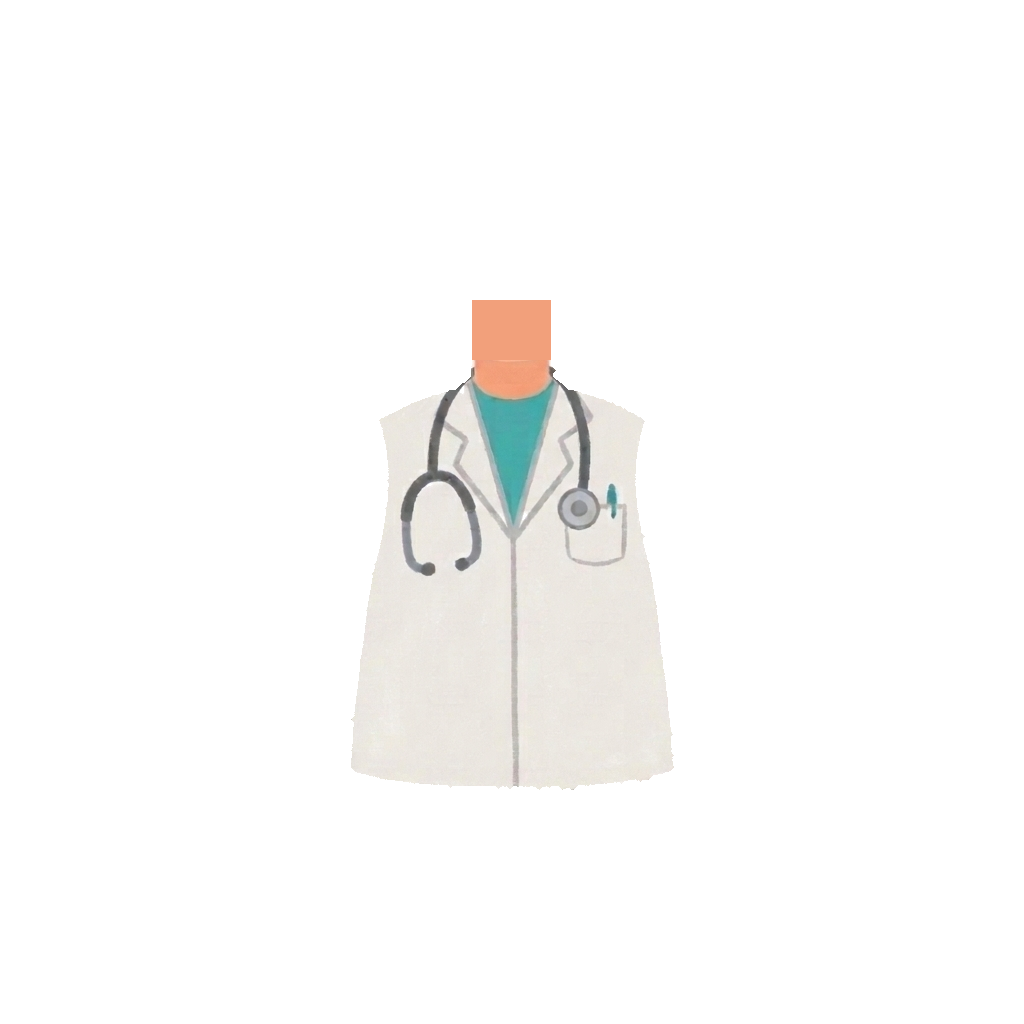
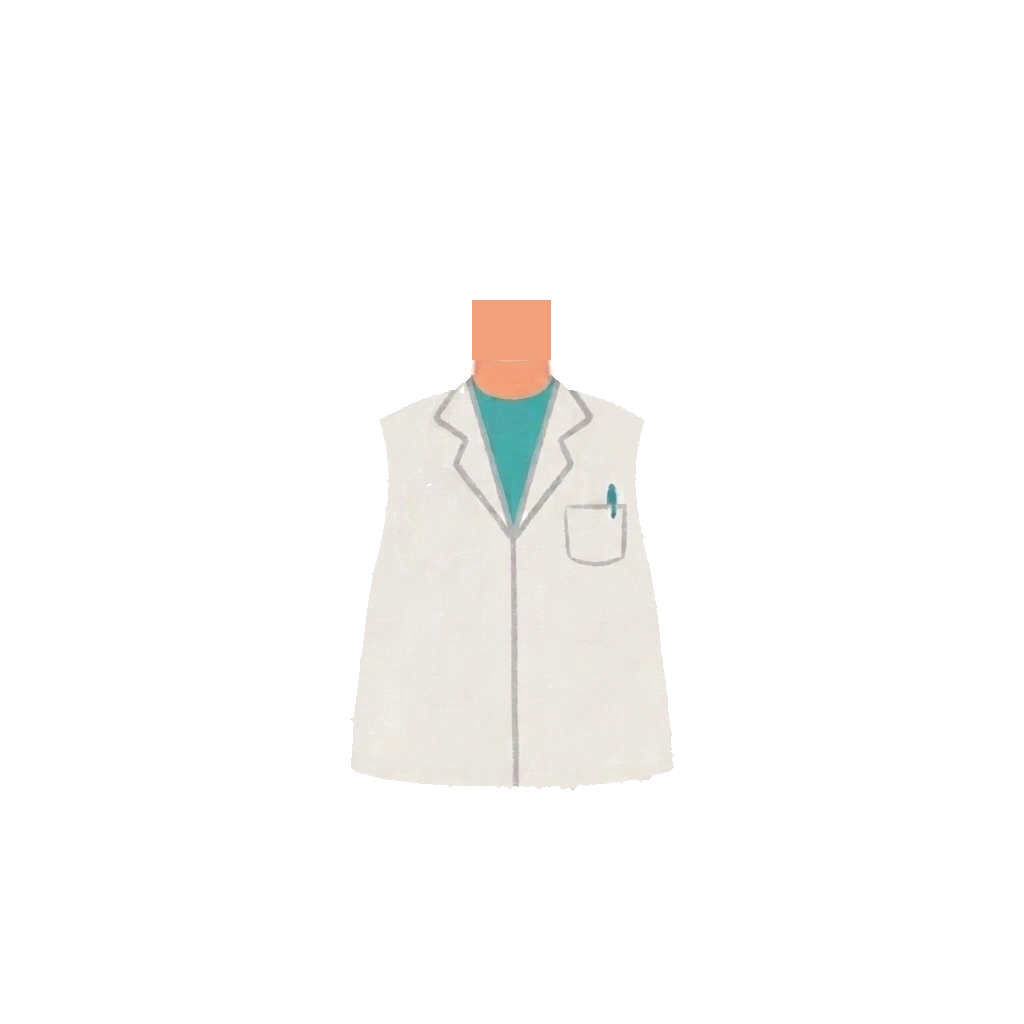
Doktorn A: stetoskopet och öronlampan i kod (verktyg/doktor-saker.js), stetoskopet i öronen när doktorn lyssnar, kroppen utan inbakat stetoskop, ?ark=saker
Claude-Session: https://claude.ai/code/session_01DEaxNzsmbXEwSKmxFy2aQ3

Changed region(s): [[0.375, 0.375, 0.4688, 0.5625], [0.5312, 0.375, 0.5938, 0.5312]]

diff --git a/assets/karaktarer/doktorn-a/premium/uttryck.html b/assets/karaktarer/doktorn-a/premium/uttryck.html
@@ -43,6 +43,7 @@
 <script src="../../../../verktyg/blinka.js"></script>
 <script src="../../../../verktyg/rigg-motor.js"></script>
 <script src="../../../../verktyg/rigg-three.js"></script>
+<script src="../../../../verktyg/doktor-saker.js"></script>
 <script>
 // Vridpunkter ur mor-rigg.json. Armarna och benen är ritade (premium/skript/mor_lemmar.py): armen EN rund stump i ett stycke
 // (smal underarm, rund hand) med vridpunkten där den kommer ut under ärmen, benen persika med brun sko och lång rot 80 px upp
@@ -123,7 +124,7 @@ const UTTRYCK = {
 // boj kroppen böjer sig från fötterna i grader (+ åt höger): huvudet lutar sig dit, fötterna står kvar platt (luta vrider hela figuren)
 // bada 0–1: båda armarna ut på riktningens sida (riktningsposerna, håller, når); utan den vänder rikt bara ansiktet, magen och öronen
 const POSE0 = { luta: 0, rikt: 0, upp: 0, bred: 0, strack: 0, sank: 0, armar: [0, 0], fram: [0, 0], oron: [0, 0],
-  benFram: 0, ben: [0, 0], benY: [0, 0], benS: [0, 0], lyft: 0, svans: 0, x: 0, klapp: 0, gang: 0, sving: 0, armY: 0, hand: 0, gnista: 0, skak: [0, 0], nick: [0, 0], boj: 0, bada: 0, armbage: [0, 0] };
+  benFram: 0, ben: [0, 0], benY: [0, 0], benS: [0, 0], lyft: 0, svans: 0, x: 0, klapp: 0, gang: 0, sving: 0, armY: 0, hand: 0, gnista: 0, skak: [0, 0], nick: [0, 0], boj: 0, bada: 0, armbage: [0, 0], steto: 0, lampa: 0, ljus: 0 };
 const POSER = {
   neutral:   { namn: 'neutral' },
   lutaV:     { namn: 'lutar vänster', luta: -1.5, boj: -4.5 },
@@ -143,6 +144,10 @@ const POSER = {
   huka:      { namn: 'hukar (före hopp)', strack: -0.08, bred: 0.05, ben: [6, 6], armar: [-10, -10] },
   stampar:   { namn: 'stampar', ben: [0, 8], benY: [0, -16], luta: -2 },
   lyssnar:   { namn: 'lyssnar', luta: 2, boj: 5.5 },
+  // Stetoskopet i öronen (Sanna 2026-11-20: "när läkaren lyssnar måste stetoskopet vara i öronen"): vänster hand håller bröstdelen
+  // ut mot britsen. steto ≥ 0,5: i öronen, annars runt halsen (klipp, ingen övergång). lampa ≥ 0,5: öronlampan i vänster hand, ljus 0–1.
+  stetoskop: { namn: 'lyssnar med stetoskopet', steto: 1, armar: [40, 0], armbage: [-50, 0], luta: -1, boj: -2.5 },
+  lampa:     { namn: 'öronlampan', lampa: 1, ljus: 1, armar: [40, 0], armbage: [-50, 0], luta: -1, boj: -2.5 },
   // stolt: bröstet ut och hakan upp (ansiktet och blicken lite uppåt), armarna lite ut
   stolt:     { namn: 'stolt', strack: 0.05, bred: 0.02, upp: 0.55, sank: -4, armar: [8, 8], oron: [-4, -4] },
   // sover sittande: ihopsjunken, huvudet lite nerböjt, händerna vilar på magen (som 'magen')
@@ -165,8 +170,8 @@ function figur(x, y, skala) {                 // Mor med fötterna i (x, y)
   g.innerHTML = `<ellipse class="skugga" cx="512" cy="${FOTTER - 14}" rx="300" ry="34" fill="#000" opacity="0.1"/>
     <g class="figuren" filter="url(#dkant)">${['leg-l', 'leg-r'].map(n => del(n)).join('')}
     <g class="armar-bak"></g>
-    <g class="kropp"><image href="cut/doktorn-a-body-nk.png" width="1024" height="1024"/>
-    <g class="drag"><image href="cut/doktorn-a-head-nk.png" width="1024" height="1024"/><g class="ansiktet" transform="${ANSIKTE}">
+    <g class="kropp"><image href="cut/doktorn-a-body-nk.png" width="1024" height="1024"/><g class="steto-hals"></g>
+    <g class="drag"><image href="cut/doktorn-a-head-nk.png" width="1024" height="1024"/><g class="steto-oron"></g><g class="ansiktet" transform="${ANSIKTE}">
     <path class="nasa" transform="translate(0 ${NOSY})" d="M498 420 Q510.5 404 523 420" fill="none" stroke="${NASA}" stroke-width="6" stroke-linecap="round"/>
     ${KINDER.map(([x, y]) => `<ellipse class="kind" cx="${x}" cy="${y}" rx="34" ry="20" fill="${KIND}"/>`).join('')}
     ${OGON.map((_, i) => { const o = i ? 1 : -1; return `<g class="oga">
@@ -180,7 +185,7 @@ function figur(x, y, skala) {                 // Mor med fötterna i (x, y)
       <path class="bryn" d="M-16 3 Q0 -6 16 3" fill="none" stroke="${LINJE}" stroke-width="6" stroke-linecap="round"/>`; }).join('')}
     <g class="munnen"><path class="mun" fill="${MUNFARG}"/>
     <g fill="none" stroke="${MUNLINJE}" stroke-width="5.5" stroke-linecap="round"><path class="le"/></g></g>
-    </g></g></g>${del('leg-l')}${del('leg-r')}<g class="armar-fram"></g>
+    </g></g></g>${del('leg-l')}${del('leg-r')}<g class="armar-fram"></g><g class="steto-fram"></g><g class="saken"></g>
     <g class="gnista">${[0, 1, 2, 3].map(() => `<path fill="none" stroke="#fff" stroke-width="15" stroke-linecap="round"/><path fill="none"
       stroke="#7a4a32" stroke-width="7" stroke-linecap="round"/>`).join('')}</g></g>`;
   // Den riktiga klappen (?klapp=kant ger den gamla) använder -klapp-kopian (verktyg/klapparm.py): som -fram men med HELA
@@ -244,6 +249,14 @@ function rita(fig, f, p = POSE0) {
     const { svg, hand } = armRita(s, x, y, v1, v2, k > 0.5);
     hander[n] = hand; (k > 0.5 ? fram : bak).push(svg); });
   q('.armar-bak').innerHTML = bak.join(''); q('.armar-fram').innerHTML = fram.join('');
+  // Stetoskopet och öronlampan (verktyg/doktor-saker.js). Y-knuten följer huvudet (.drag och nicken) och kroppens sträckning.
+  const iOron = p.steto >= 0.5, [n0] = p.nick || [0, 0], [s0] = p.skak || [0, 0];
+  q('.steto-hals').innerHTML = iOron ? '' : stetoHals();
+  q('.steto-oron').innerHTML = iOron ? stetoOron() : '';
+  const jx = 512 + 20 * r + 24 * s0, jy = FOTTER + sy * (STETO.Y[1] - FOTTER) + sank + 2 * a - 10 * u + 20 * n0;
+  q('.steto-fram').innerHTML = iOron ? stetoSlang([jx, jy], hander.l, -1) : '';
+  q('.saken').innerHTML = p.lampa >= 0.5 ? oronlampa(hander.l[0], hander.l[1], -8, 1.25, p.ljus)
+    + `<circle cx="${hander.l[0]}" cy="${hander.l[1]}" r="${ARM.HAND * 0.8}" fill="${ARM.HUD}" stroke="${ARM.HUDKANT}" stroke-width="3"/>` : '';
   // Klappgnistan: fyra korta kritstreck ut från händerna där de möts, i 0,25 s efter varje klapp (p.gnista 0–1, 0 = ingen).
   const g = p.gnista, gx = (hander.l[0] + hander.r[0]) / 2, gy = (hander.l[1] + hander.r[1]) / 2 - 10;
   alla('.gnista path').forEach((e, j) => { const v = [-172, -142, -38, -8][Math.floor(j / 2)] * Math.PI / 180;   // åt sidorna och uppåt, inte rakt upp i ansiktet
@@ -334,7 +347,7 @@ Object.assign(window, { UTTRYCK, NEUTRAL, POSER, POSE0, blanda, blandaPose, ansi
 // Arket med poser visar varje pose med ett uttryck som passar.
 const PAR = { neutral: 'neutral', lutaV: 'glad', lutaH: 'nyfiken', vanster: 'glad', hoger: 'nyfiken', haller: 'glad', nar: 'nyfiken', upp: 'forvanad', ner: 'ledsen',
   pekar: 'nyfiken', hurra: 'jatteglad', magen: 'glad', blyg: 'fnissig', sitter: 'glad', strack: 'somnig', huka: 'glad',
-  stampar: 'arg', lyssnar: 'nyfiken', stolt: 'stolt', sover: 'sover', liggMage: 'sover' };
+  stampar: 'arg', lyssnar: 'nyfiken', stetoskop: 'glad', lampa: 'nyfiken', stolt: 'stolt', sover: 'sover', liggMage: 'sover' };
 
 const sok = new URLSearchParams(location.search), bara = sok.get('bara'), enPose = sok.get('pose');
 const etikett = (x, y, s, storlek) => document.getElementById('etiketter').insertAdjacentHTML('beforeend',
@@ -408,6 +421,14 @@ if ((bara && UTTRYCK[bara]) || (enPose && POSER[enPose])) {
   document.getElementById('scen').innerHTML = `<image href="../../../../${sok.get('scen')}" width="1920" height="1080" preserveAspectRatio="xMidYMid slice"/>`;
   const fig = figur(+sok.get('x') || 1450, +sok.get('y') || 900, +sok.get('s') || 0.6), po = POSER[sok.get('pose')] ? sok.get('pose') : 'neutral';
   render = t => { ansikte(blinka(blanda('neutral', 'glad', 1), t), 1, fig); pose(po, 1, fig); document.getElementById('brus').setAttribute('seed', Math.floor(t * 10) % 50 + 1); };
+} else if (sok.get('ark') === 'saker') {
+  // ?ark=saker: stetoskopet runt halsen, i öronen och öronlampan (verktyg/doktor-saker.js), och sakerna stora som i närbilderna.
+  [['neutral', 'glad', 'runt halsen'], ['stetoskop', 'glad', 'lyssnar: i öronen'], ['lampa', 'nyfiken', 'öronlampan']].forEach(([po, u, t], i) => {
+    const x = 330 + 520 * i, fig = figur(x, 900, 0.62); ansikte(u, 1, fig); pose(po, 1, fig); etikett(x, 960, t, 34); });
+  document.getElementById('forgrund').innerHTML = `<defs>${saksKant(9)}</defs><g filter="url(#saksKant)">${brostdel(1720, 380, 60)}</g>
+    <g filter="url(#saksKant)">${oronlampa(1760, 640, 0, 1.4, 1)}</g>`;
+  etikett(1720, 500, 'bröstdelen', 28); etikett(1700, 740, 'lampan med ljus', 28);
+  render = () => {};
 } else if (sok.get('ark') === 'kawaii') {
   // ?ark=kawaii: neutral → kawaii (k 0, 0,5, 1).
   [0, 0.5, 1].forEach((k, i) => { const x = 400 + 560 * i, fig = figur(x, 900, 0.62); ansikte('kawaii', k, fig);

diff --git a/verktyg/doktor-saker.js b/verktyg/doktor-saker.js
@@ -1,0 +1,70 @@
+// Doktorns saker i kod (Besöket, format/besoket.md; Sanna 2026-11-20: "stetoskop kod", "öronlampa kod").
+// Allt är SVG-strängar i doktorns 1024-ruta (samma koordinater som cut/doktorn-a-*.png), så att de följer riggen.
+// Färgerna är stetoskopets i konsten (doktorn-a-forsta.jpg): mörkgrå slang, silvergrå bröstdel. Lampans handtag är
+// doktorns turkos. Den vita klistermärkeskanten kommer från figurens #dkant, eller från saksKant() i närbilderna.
+//
+//   stetoHals()                 stetoskopet runt halsen (kroppens koordinater, ritas i .kropp ovanpå rocken)
+//   stetoOron()                 öronpropparna i öronen och slangarna ner till Y-knuten STETO.Y (huvudets koordinater, .drag)
+//   stetoSlang(j, h, s)         slangen från Y-knuten j till handen h och bröstdelen i handen (s −1 vänster hand, 1 höger)
+//   brostdel(x, y, r)           bara bröstdelen (närbilderna)
+//   oronlampa(x, y, v, sk, ljus) lampan med greppet i (x, y), spetsen åt vänster, vriden v grader, skala sk, ljus 0–1
+
+const STETO = {
+  SLANG: '#59616b', SLANGLJUS: '#6f7883', BRED: 11,
+  SILVER: '#c9d2da', SILVERKANT: '#98a2ac', MITT: '#b3bdc6',
+  ORON: [[385, 262], [637, 262]],   // öronen i doktorn A:s huvud (uppmätt ur doktorn-a-utan-stetoskop.jpg)
+  Y: [512, 408],                    // Y-knuten under hakan, framför halsen
+};
+
+const stetoStreck = (d, b = STETO.BRED) =>
+  `<path d="${d}" fill="none" stroke="${STETO.SLANG}" stroke-width="${b}" stroke-linecap="round" stroke-linejoin="round"/>`;
+
+function brostdel(x, y, r = 19) {
+  return `<g><circle cx="${x}" cy="${y}" r="${r}" fill="${STETO.SILVER}" stroke="${STETO.SILVERKANT}" stroke-width="${r * 0.2}"/>
+    <circle cx="${x}" cy="${y}" r="${r * 0.42}" fill="${STETO.MITT}"/></g>`;
+}
+
+// Runt halsen som i konsten: vänster sida slutar i öronbygeln med två proppar, höger sida i bröstdelen vid fickan.
+function stetoHals() {
+  return `<g class="steto">${stetoStreck('M474 372 Q440 395 434 482')}
+    ${stetoStreck('M434 482 Q404 500 410 540 Q414 560 426 567')}${stetoStreck('M434 482 Q468 498 466 538 Q465 556 461 566')}
+    <circle cx="427" cy="568" r="7" fill="${STETO.SLANGLJUS}"/><circle cx="460" cy="567" r="7" fill="${STETO.SLANGLJUS}"/>
+    ${stetoStreck('M548 370 Q586 396 582 490')}${brostdel(580, 506)}</g>`;
+}
+
+// I öronen: en liten propp i varje öra, slangarna går ner längs käken och möts i Y-knuten under hakan.
+function stetoOron() {
+  const [[lx, ly], [rx, ry]] = STETO.ORON, [jx, jy] = STETO.Y;
+  return `<g class="steto">${stetoStreck(`M${lx + 4} ${ly + 8} Q${lx + 30} ${jy - 30} ${jx - 6} ${jy}`, 10)}
+    ${stetoStreck(`M${rx - 4} ${ry + 8} Q${rx - 30} ${jy - 30} ${jx + 6} ${jy}`, 10)}
+    <circle cx="${lx}" cy="${ly}" r="9" fill="${STETO.SLANGLJUS}"/><circle cx="${rx}" cy="${ry}" r="9" fill="${STETO.SLANGLJUS}"/>
+    <circle cx="${jx}" cy="${jy}" r="8" fill="${STETO.SLANG}"/></g>`;
+}
+
+// Från Y-knuten till handen: slangen hänger i en mjuk båge, bröstdelen ligger i handen (lite ut mot fingrarna).
+function stetoSlang([jx, jy], [hx, hy], s = -1) {
+  const bx = hx + s * 16, by = hy + 4;
+  return `<g class="steto">${stetoStreck(`M${jx} ${jy} C${jx} ${jy + 110} ${bx - s * 70} ${by + 90} ${bx} ${by}`)}
+    <circle cx="${jx}" cy="${jy}" r="8" fill="${STETO.SLANG}"/>${brostdel(bx, by, 21)}</g>`;
+}
+
+// Öronlampan: turkost handtag (greppet, handtagets mitt, i x, y), ett runt vitt huvud och en kort trubbig spets som pekar åt vänster.
+// Ljuset är en mjuk gul fläck framför spetsen (ljus 0–1), ingen stråle.
+function oronlampa(x, y, v = 0, sk = 1, ljus = 0) {
+  const sken = ljus > 0 ? [[46, 0.18], [32, 0.28], [18, 0.45]].map(([r, o]) =>
+    `<circle cx="-104" cy="0" r="${r}" fill="#ffe680" opacity="${o * ljus}"/>`).join('') : '';
+  return `<g class="lampa" transform="translate(${x} ${y}) rotate(${v}) scale(${sk}) translate(-32 0)">${sken}
+    <path d="M-40 -14 L-78 -8 Q-88 0 -78 8 L-40 14 Z" fill="#c9d2da" stroke="#a6b0ba" stroke-width="3" stroke-linejoin="round"/>
+    <circle cx="-78" cy="0" r="${4 + 4 * ljus}" fill="#fff4b8" opacity="${ljus}"/>
+    <rect x="-14" y="-17" width="92" height="34" rx="17" fill="#3BB4A8" stroke="#2f958b" stroke-width="3"/>
+    <circle cx="40" cy="-17" r="6.5" fill="#e6eaee" stroke="#b9c1c8" stroke-width="2"/>
+    <circle cx="-24" cy="0" r="26" fill="#f4f4f2" stroke="#cfd5da" stroke-width="3"/></g>`;
+}
+
+// Vit klistermärkeskant runt en sak i närbilderna (där figurens #dkant inte finns). Lägg filtret i <defs> en gång
+// och sätt filter="url(#saksKant)" på sakens grupp.
+const saksKant = (px = 8) => `<filter id="saksKant" x="-0.3" y="-0.3" width="1.6" height="1.6">
+  <feMorphology in="SourceAlpha" operator="dilate" radius="${px}" result="d"/><feFlood flood-color="#fff"/>
+  <feComposite in2="d" operator="in"/><feMerge><feMergeNode/><feMergeNode in="SourceGraphic"/></feMerge></filter>`;
+
+if (typeof window !== 'undefined') Object.assign(window, { STETO, brostdel, stetoHals, stetoOron, stetoSlang, oronlampa, saksKant });

diff --git a/avsnitt/046-kaninen-gar-till-doktorn/manus.md b/avsnitt/046-kaninen-gar-till-doktorn/manus.md
@@ -1,13 +1,13 @@
 # Avsnitt 046 – Kaninen går till doktorn (plan)
 
-**Status:** plan 2026-11-20, **grind 1 (manus) godkänd av Sanna 2026-11-20**, version 1. Grind 2: doktorn A och mottagningen v2 klara; **nästa: stetoskopet och öronlampan**, prompterna i [`saker-prompter.md`](saker-prompter.md) (förslag: doktorns hand i närbilderna ritas i kod med `armRita()`, inga hand-urklipp). Piloten för **Besöket** ([`format/besoket.md`](../../format/besoket.md)), en gren av bilderboken ([`format/bilderbok.md`](../../format/bilderbok.md), skillen `bilderbok`). Avsnittet förbereder små barn för ett besök hos doktorn. Malin berättar och kaninen svarar med ljud, öron och ansikte. **Doktorn säger inget**, **ingen spruta**, **bara mottagningen** (Sanna 2026-11-20). Inget är byggt än. Ca 4 min.
+**Status:** plan 2026-11-20, **grind 1 (manus) godkänd av Sanna 2026-11-20**, version 1. Grind 2: doktorn A (nu utan inbakat stetoskop), mottagningen v2, stetoskopet och öronlampan i kod (`uttryck.html?ark=saker`). Nästa: närbildsprovet med kodhanden mot kaninens mage och öra, sedan grind 3 (Malins röst). Piloten för **Besöket** ([`format/besoket.md`](../../format/besoket.md)), en gren av bilderboken ([`format/bilderbok.md`](../../format/bilderbok.md), skillen `bilderbok`). Avsnittet förbereder små barn för ett besök hos doktorn. Malin berättar och kaninen svarar med ljud, öron och ansikte. **Doktorn säger inget**, **ingen spruta**, **bara mottagningen** (Sanna 2026-11-20). Inget är byggt än. Ca 4 min.
 
 | | |
 |---|---|
 | **Titel** | Kaninen går till doktorn (avsnitt 46) |
 | **Figurer (2)** | **Kaninen Kanel** (v2, riggad, sittposen finns) · **Doktorn** (ny, **mer mänskliga proportioner och en egen rigg**, Sanna 2026-11-20: runt huvud på kort hals, kropp i rock, raka armar och ben; görs med `lk-figur`, prompterna i [`doktorn-prompter.md`](doktorn-prompter.md)). **Sanna valde doktorn A** 2026-11-20 (vit rock, röda lockar): [`karaktarer/doktorn-a.md`](../../karaktarer/doktorn-a.md). Doktorn står still vid britsen, nickar, ler och vinkar |
 | **Platser (1)** | **Mottagningen** (ny platta 16:9, [`bakgrunder/mottagningen.md`](../../bakgrunder/mottagningen.md), alternativ D vald av Sanna 2026-11-20): himmelsblå vägg, korallröd brits med papper, vit pall, undersökningslampa på väggen, ljust golv. Inget platsbyte |
-| **Saker** | **nallen** (finns, `rekvisita/nalle.md`, ritas av kritan) · **stetoskopet** (nytt) · **öronlampan** (ny) |
+| **Saker** | **nallen** (finns, `rekvisita/nalle.md`, ritas av kritan) · **stetoskopet** och **öronlampan** ritas i kod (Sanna 2026-11-20, [`verktyg/doktor-saker.js`](../../verktyg/doktor-saker.js)), inga bilder |
 | **I kod** | stetoskopets slang (mjuk kritkurva från doktorns hals till handen), lampans ljus, klistermärket med stjärnan (ritas av kritan), skimret, hjärtslagens små ringar |
 | **Musik** | ingen |
 | **Favoriter** | 🐰 kanin · 🧸 nalle |
@@ -160,7 +160,7 @@ Familjerna finns: `kanin-gullig` (8 känslor, plus `kanin-hej` och `kanin-hejda`
 - [x] Inget läskigt: ingen spruta, ingen gråt, inga ord som ont, sjuk, farligt, rädd eller modig. Känslan *"lite osäker"* sägs högt och nallen hjälper
 - [x] Fniss: 19–20, 23, 33 (högst 3–4, aldrig två rader i följd med fniss över Malin)
 - [x] Ingen ny musik
-- [x] 2 nya saker (stetoskopet, öronlampan), inom `format/regler.md`
+- [x] Inga nya saker som bilder: stetoskopet och öronlampan ritas i kod, som plåstret
 - [ ] **Avsteg:** 2 figurer. Bilderboken har 1, men doktorn behövs. Doktorn är tyst och står still, så det är en lätt figur
 - [ ] **Avsteg:** ny figur (doktorn) och ny platta (mottagningen). Båda görs en gång och återanvänds i hela Besöket
 - [ ] Avsteg som receptet redan har: ingen sång, fler än 6 utsnitt

diff --git a/karaktarer/doktorn-a.md b/karaktarer/doktorn-a.md
@@ -12,6 +12,8 @@
 >
 > **Vit kant (Sanna 2026-11-20: "polish dr white rim"):** EN jämn kant runt hela figuren, filtret `#dkant` på `.figuren` i `uttryck.html` (alfan suddas och skärs av, ca 12 enheter ≈ 10 px i bild på SKALA 0,8, lite kritkorn). Delarnas inbakade kanter var olika tjocka och gav vita bulor vid fållen, så sidan använder kantlösa kopior `cut/doktorn-a-{body,head,leg-l,leg-r}-nk.png` (den vita kanten, det bleka brynet och lösa kritsmulor bortplockade). Armar bakom rocken har ingen egen kant; armar framför rocken har en smal vit skiljelinje mot rocken.
 >
+> **Stetoskopet i kod** (Sanna 2026-11-20: *"när läkaren lyssnar måste stetoskopet vara i öronen"*, *"stetoskop kod"*): kroppen är omgjord utan stetoskop (`original/doktorn-a-utan-stetoskop.jpg`, Flow-redigering av `-utan-lemmar.jpg`, pixeljusterad; bara stetoskopets pixlar bytta i `cut/doktorn-a-body{,-nk}.png`, de gamla ligger i `-med-stetoskop.png`). Stetoskopet och öronlampan ritas av [`verktyg/doktor-saker.js`](../verktyg/doktor-saker.js): runt halsen som i konsten, eller i öronen (pose `stetoskop`, öronen (385, 262) och (637, 262), Y-knuten under hakan följer nicken) med slangen ner till bröstdelen i vänster hand. Pose `lampa`: öronlampan i vänster hand med ljuset tänt. Ark: `uttryck.html?ark=saker`.
+>
 > **Ansikte i kod** (Mors kod, skalad 0,66 runt huvudet): ögon (435, 399) och (588, 399), kinder (406, 443) och (618, 443), leendet y 480.
 >
 > **Uttryck, poser och testfilm:** [`premium/uttryck.html`](../assets/karaktarer/doktorn-a/premium/uttryck.html), samma API som Mor (`ansikte`, `pose`, `rorelse`, `?ark=poser`, `?film=1`). Riktningsposerna vänder bara huvudet, armarna stannar på var sin sida. Klappen möts lågt på rocken. **Sitta, sova och ligga ser konstiga ut med de långa benen**, men doktorn står alltid still (receptet).

diff --git a/format/besoket.md b/format/besoket.md
@@ -89,7 +89,7 @@ Det här är det viktigaste: besöken ska gå att göra i bilderbokens takt.
 |---|---|---|
 | Doktorn | egen rigg (`verktyg/doktor_delar.py`), `karaktarer/doktorn-a.md` och `doktorn-b.md` | en gång för hela serien |
 | Mottagningen | ny platta 16:9: lugn vägg (mint eller ljusblå), vitt golv, britsen med papper, ett fönster, en tavla med ett djur, en våg | en gång |
-| Stetoskop, öronlampa | två urklipp i Flow, stilreferens = avsnittets saker (sprutan görs först till BVC-avsnittet) | en gång |
+| Stetoskop, öronlampa | **i kod** (`verktyg/doktor-saker.js`, Sanna 2026-11-20), stetoskopet runt halsen eller i doktorns öron; doktorns kropp är utan inbakat stetoskop (sprutan görs först till BVC-avsnittet) | en gång |
 | Doktorns hand-instick | ett urklipp per sak (ärm + hand + sak) | en gång per sak |
 | Ljud | hjärtslag, lampklick, plåsterpop, djurets *"aaa"* och *"aj"* (Openverse först) | en gång |
 

diff --git a/avsnitt/046-kaninen-gar-till-doktorn/saker-prompter.md b/avsnitt/046-kaninen-gar-till-doktorn/saker-prompter.md
@@ -1,5 +1,7 @@
 # 046 – stetoskopet och öronlampan: Flow-prompter (grind 2, utkast)
 
+> **Används inte** (Sanna 2026-11-20: *"stetoskop kod"*, *"öronlampa kod"*). Båda ritas i kod i [`verktyg/doktor-saker.js`](../../verktyg/doktor-saker.js). Bara redigeringen *Doktorn A utan stetoskop* nedan är gjord (`doktorn-a-utan-stetoskop.jpg`). Prompterna sparas om en bild behövs senare.
+
 Grind 2 för sakerna. Doktorn A och mottagningen v2 är klara. Nu görs de två nya sakerna och doktorn utan stetoskop (se nedan). Google Flow, Nano Banana Pro, 1:1, 0 krediter, **4 tagningar per sak**. Lägg tagningarna i `assets/rekvisita/<sak>/original/<sak>-1…4.jpg`, sedan gör Claude `original/jamforelse.jpg`, och Sanna väljer. Först efter valet skrivs `rekvisita/stetoskop.md` och `rekvisita/oronlampa.md` och raderna i `rekvisita/README.md`.
 
 **Stilreferenser (samma för båda):**
